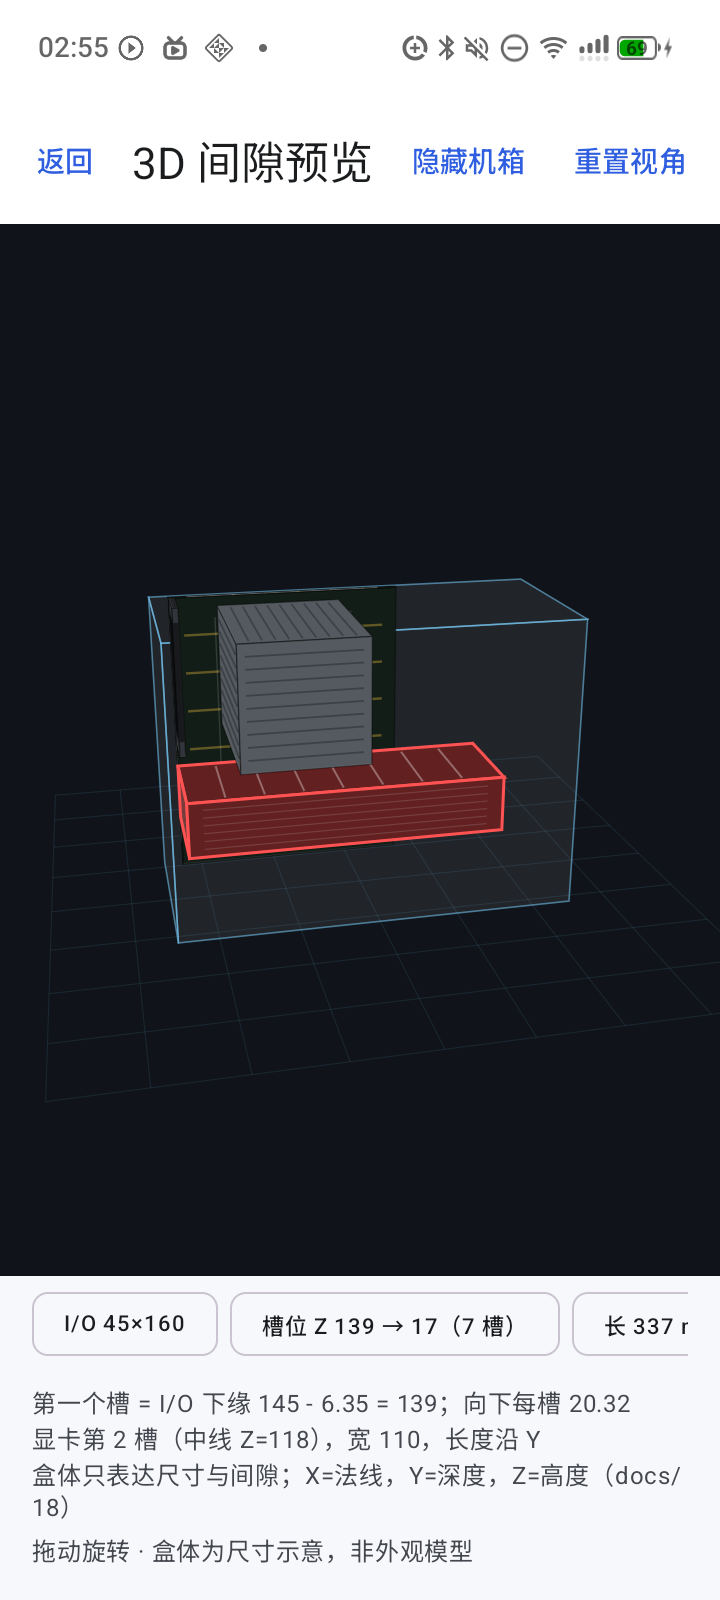
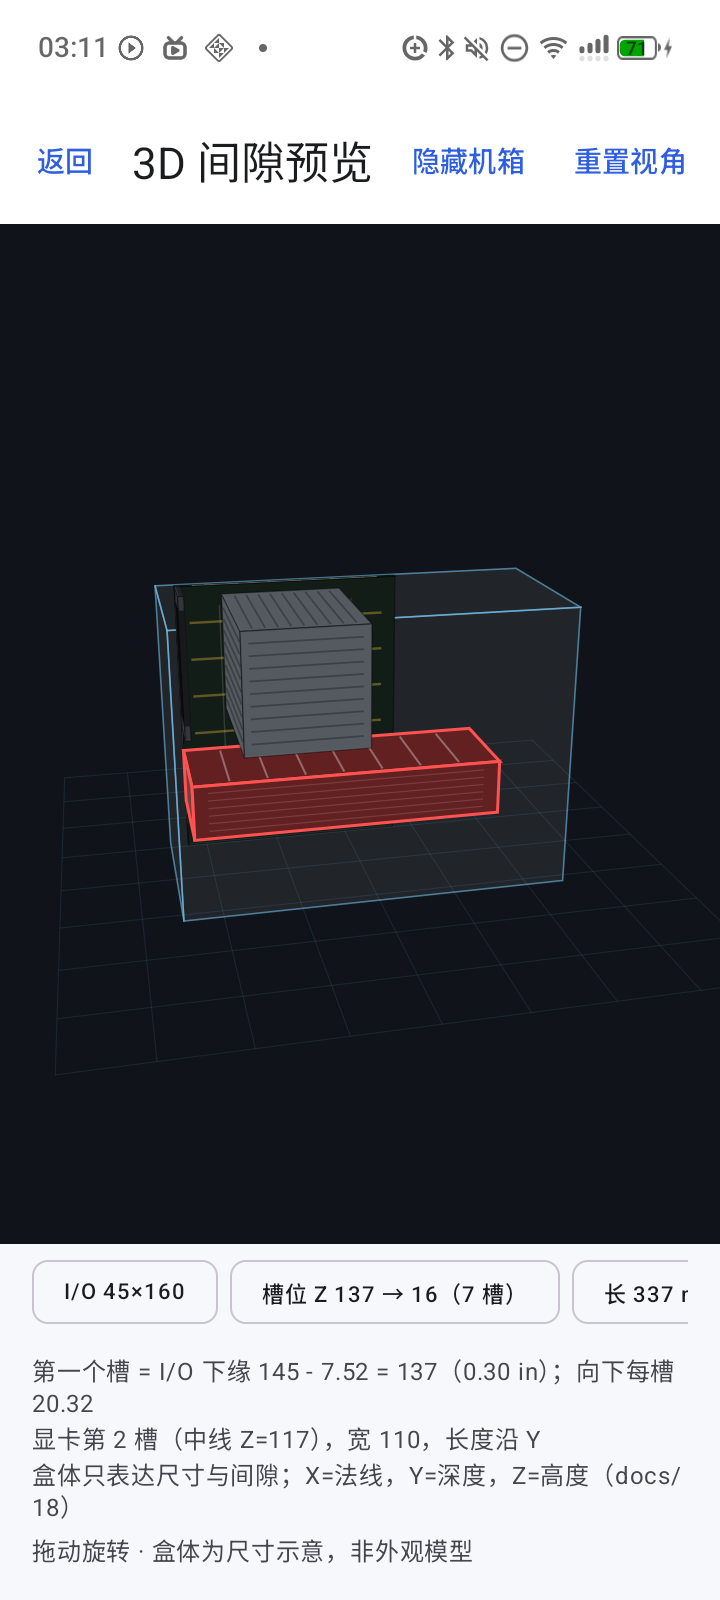
fix(viz): first slot is 0.30 in (7.52 mm) below the IO bottom
Per the ATX drawing, the gap between the IO shield bottom and the first PCIe slot is [7.52] mm = 0.30 in, not 0.25 in. ATX first slot 137.48, second 117.16; GPU top 117.16 < IO bottom 145. Mini-ITX stays at 0.25 in (6.35 mm) from the bottom edge pending confirmation. Docs now spell both units: [mm] inch.

diff --git a/ui/src/main/kotlin/pcbuildmate/ui/preview/Scene3d.kt b/ui/src/main/kotlin/pcbuildmate/ui/preview/Scene3d.kt
@@ -65,9 +65,9 @@ object SceneBuilder {
 
     const val BOARD_THICKNESS_MM = 6f
     const val SLOT_PITCH_MM = 20.32f
-    /** ATX/mATX 第一个槽：I/O 下缘 - 0.25"（6.35mm）。 */
-    const val FIRST_SLOT_FROM_IO_MM = 6.35f
-    /** Mini-ITX 单槽：从板下缘往上 0.25"（6.35mm）。 */
+    /** ATX/mATX 第一个槽：I/O 下缘 - 0.30 in = [7.52] mm（图纸标注，括号内为 mm）。 */
+    const val FIRST_SLOT_FROM_IO_MM = 7.52f
+    /** Mini-ITX 单槽：从板下缘往上 0.25 in = [6.35] mm。 */
     const val ITX_SLOT_FROM_BOTTOM_MM = 6.35f
     const val IO_WIDTH_MM = 45f      // 沿 X（板法线方向伸出）
     const val IO_THICKNESS_MM = 6f   // 沿 Y
@@ -134,7 +134,7 @@ object SceneBuilder {
         notes += if (slotCount == 1) {
             "Mini-ITX 单槽 = 下缘 + 0.25\" = ${fmt(firstSlotZ)}；I/O 下缘 ${fmt(boardHeight - IO_HEIGHT_MM)}，不相交"
         } else {
-            "第一个槽 = I/O 下缘 ${fmt(boardHeight - IO_HEIGHT_MM)} - 6.35 = ${fmt(firstSlotZ)}；向下每槽 20.32"
+            "第一个槽 = I/O 下缘 ${fmt(boardHeight - IO_HEIGHT_MM)} - 7.52 = ${fmt(firstSlotZ)}（0.30 in）；向下每槽 20.32"
         }
         if (slotCount == 1) {
             notes += "Mini-ITX 单槽在 Z=${fmt(firstSlotZ)}；3 槽卡会到 Z=${fmt(firstSlotZ - gpuThicknessForHint(gpu))}，允许为负"

diff --git a/ui/src/test/kotlin/pcbuildmate/ui/preview/Scene3dTest.kt b/ui/src/test/kotlin/pcbuildmate/ui/preview/Scene3dTest.kt
@@ -59,7 +59,7 @@ class Scene3dTest {
         val expected = first - SceneBuilder.SLOT_PITCH_MM
 
         assertEquals(expected, gpu.max.z, 0.01f, "挡板上沿 = 槽位中线")
-        assertEquals(118.33f, expected, 0.01f)
+        assertEquals(117.16f, expected, 0.01f)
     }
 
     @Test

diff --git a/docs/18-3d-coordinates.md b/docs/18-3d-coordinates.md
@@ -23,8 +23,8 @@
 | 板厚 | 6（X -6..0） | 板体在负 X，零件从 0 往外长 |
 | I/O | X 0..45，Y 0..6，Z 板上沿往下 160 | 见 §18.8 待确认 |
 | PCIe 槽距 | 20.32 | 0.8" |
-| 第一个槽（ATX/mATX） | I/O 下缘 − 6.35 | 0.25" |
-| Mini-ITX 单槽 | **板下缘 + 6.35** | 0.25" 英制，从下缘往上 |
+| 第一个槽（ATX/mATX） | I/O 下缘 − **7.52** | 0.30 in = [7.52] mm（图纸） |
+| Mini-ITX 单槽 | **板下缘 + 6.35** | 0.25 in = [6.35] mm |
 | 显卡宽（X） | 110 | 口述值；ATX 常见 120 |
 | 机箱上沿 | = 主板上沿 | 不写死 305/345 |
 | 散热离板间隙 | 1 mm | 避免与板面共面穿模 |
@@ -33,7 +33,7 @@
 
 ```text
 // ATX / mATX
-firstSlotZ = (boardHeight - 160) - 6.35
+firstSlotZ = (boardHeight - 160) - 7.52
 
 // Mini-ITX（只有 1 个槽）
 firstSlotZ = 6.35          // 从板下缘往上 0.25"，不是从 I/O 算
@@ -43,8 +43,8 @@ slot(k) = firstSlotZ - (k-1) × 20.32   // k=1 最上
 
 | 板型 | 高 | 槽数 | 第一个槽 | 最后一个槽 |
 |---|---:|---:|---:|---:|
-| ATX | 305 | 7 | 138.65 | 16.73 |
-| mATX | 244 | 4 | 77.65 | 16.69 |
+| ATX | 305 | 7 | 137.48 | 15.56 |
+| mATX | 244 | 4 | 76.48 | 15.52 |
 | Mini-ITX | 170 | 1 | **6.35** | 6.35 |
 
 - 显卡挡板上沿 = 槽位中线，卡身**向下**占 thickness（2–3 槽）；
@@ -57,15 +57,15 @@ slot(k) = firstSlotZ - (k-1) × 20.32   // k=1 最上
 |---|---|---|---|
 | 主板 | -6 → 0 | 0 → 244 | 0 → 305 |
 | 后置 I/O | 0 → 45 | 0 → 6 | 145 → 305 |
-| 第 1 槽中线 | — | — | 138.65 |
-| 第 2 槽中线 | — | — | 118.33 |
-| 337mm 显卡（3 槽） | 0 → 110 | 0 → 337 | 57.33 → 118.33 |
-| 机箱限长面 | 0 → 110 | 320 | 57.33 → 118.33 |
+| 第 1 槽中线 | — | — | 137.48 |
+| 第 2 槽中线 | — | — | 117.16 |
+| 337mm 显卡（3 槽） | 0 → 110 | 0 → 337 | 56.16 → 117.16 |
+| 机箱限长面 | 0 → 110 | 320 | 56.16 → 117.16 |
 | 160mm 散热 | 1 → 161 | 50 → 180 | 165 → 295 |
 | 侧板限高面 | 160 | 50 → 180 | 165 → 295 |
 | 机箱允许空间 | -10 → 180 | -20 → 390 | 0 → 305（上沿对齐） |
 
-校验：GPU 顶 `118.33` < I/O 下沿 `145` → 不相交。
+校验：GPU 顶 `117.16` < I/O 下沿 `145` → 不相交。
 
 ## 18.5 ITX 单槽（英制 0.25" 从下缘量）
 
@@ -107,7 +107,7 @@ GPU 3 槽：6.35 - 61 = -54.65 → 6.35
 | # | 参数 | 当前值 | 依据 | 风险 / 待确认 |
 |---|---|---|---|---|
 | 1 | I/O 方向 | 45(X) × 160(Z) | 需求方口述 | ATX 标准是 159 宽 × 44.7 高；若改成 160(X)×45(Z)，GPU 与 I/O 的关系要重算 |
-| 2 | 首个槽偏移 | ATX/mATX：I/O 下缘 − 6.35；ITX：下缘 + 6.35 | 0.25" 是**英制**；ITX 特指从下缘往上 | ITX 已按英制 6.35 修正；ATX 的"IO 下缘−6.35"仍待真实板图核对 |
+| 2 | 首个槽偏移 | ATX/mATX：I/O 下缘 − **7.52**（0.30 in）；ITX：下缘 + 6.35（0.25 in） | 图纸 `[7.52] 0.30`、`[6.35] 0.25`；**括号内 mm、括号外 in** | ATX 已改为 0.30 in；ITX 的 0.25 in 是否也应为 0.30 in 待确认 |
 | 3 | 显卡所在槽 | 固定第 2 槽 | 常见第一条 x16 | 部分板第一条 x16 是第 1 槽；应由板型/芯片组决定 |
 | 4 | 显卡宽 | 110 | 需求方口述 | ATX 全高挡板常见 120；契约没有该字段 |
 | 5 | 散热器位置 | X 1→161、Y 50→180、Z 165→295 | 估算（CPU 插座位置） | 未从主板图读取 CPU socket 坐标；可能需按 board layout 调 |
